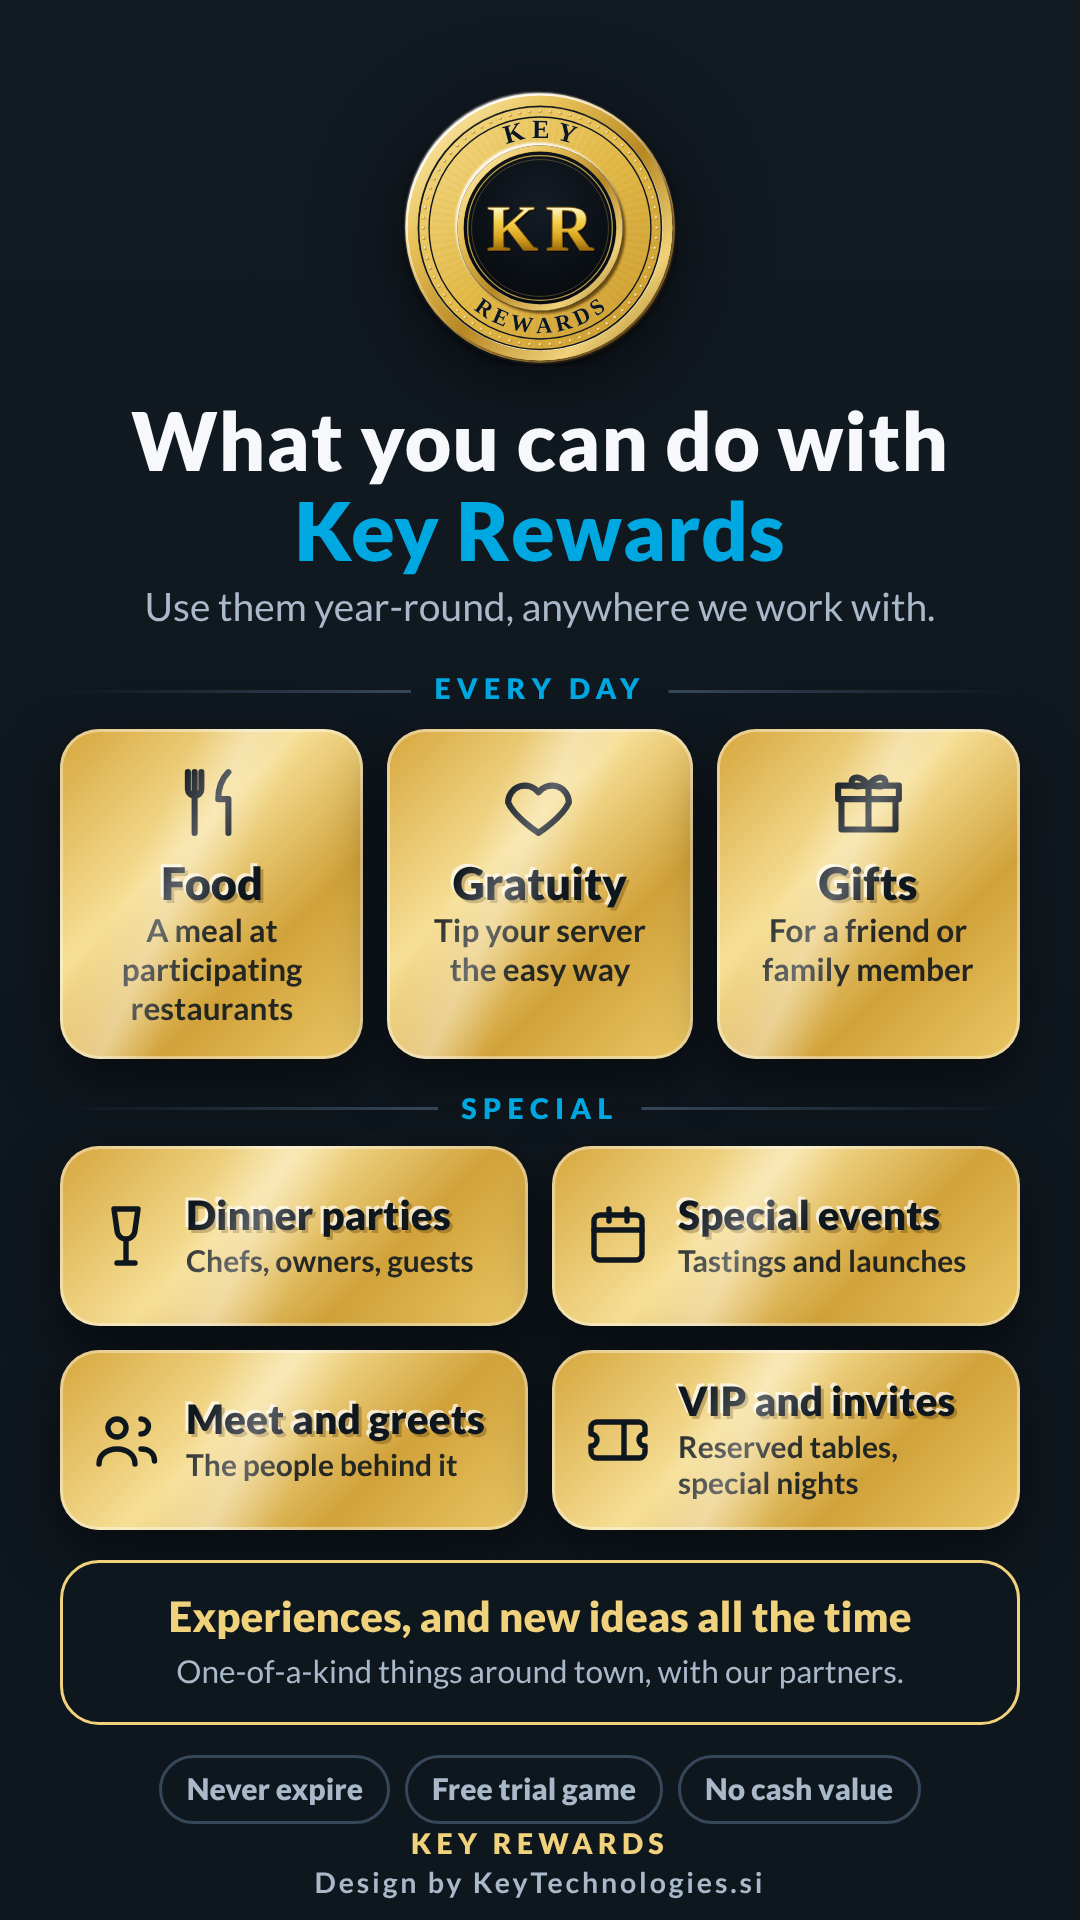
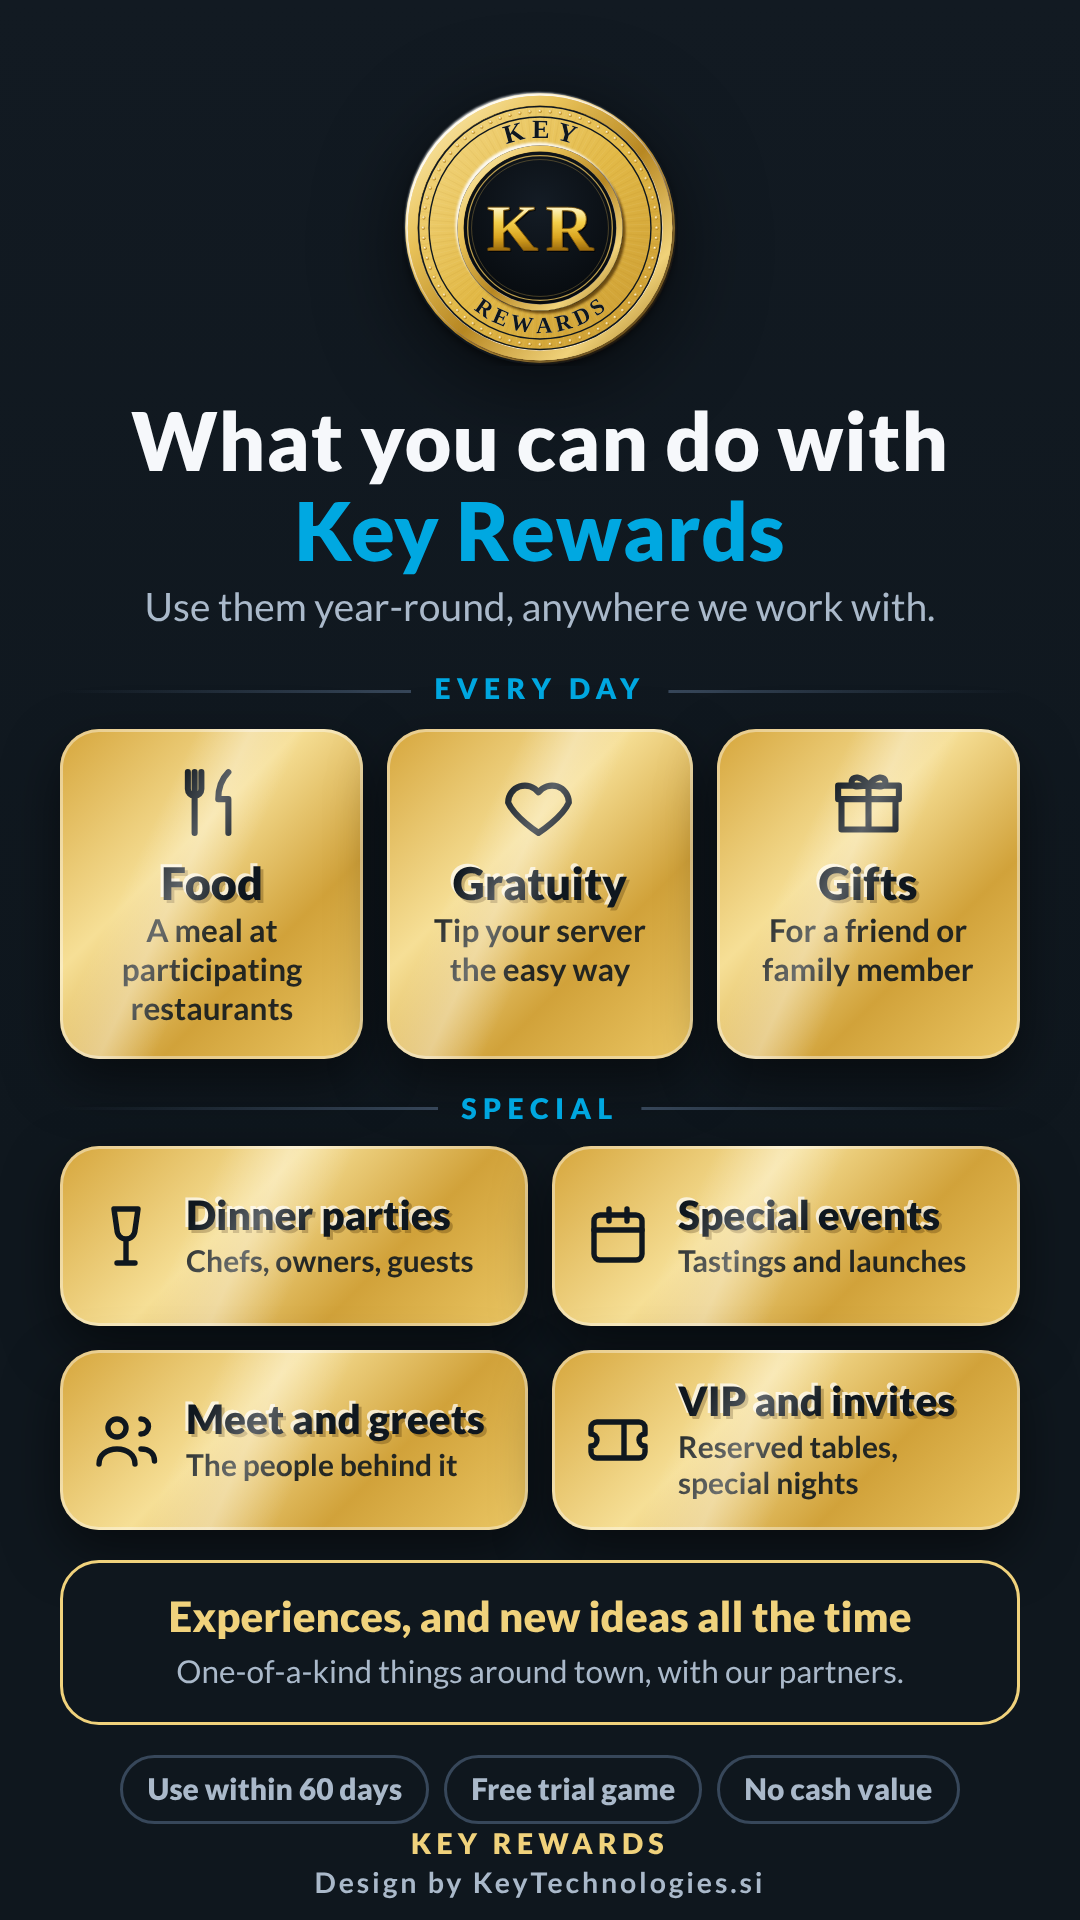
Expiry is back: 60 days for credits, 72 hours for gift cards, shown on cards, wallet, terms, history report and share pages
Claude-Session: https://claude.ai/code/session_01C24s48QBeAMLS2iDpVHsTf

Changed region(s): [[0.1222, 0.9062, 0.8861, 0.9688]]

diff --git a/sites/key-technologies/restaurant-rewards-treasury.html b/sites/key-technologies/restaurant-rewards-treasury.html
@@ -247,6 +247,7 @@ body.hlock{overflow:hidden}
 .gc::before,#pres .gc::before{display:none!important;animation:none!important}
 .gc .brand,.gc .brand2,.gc .nm,.gc .num,.gc .bal b,.gc .bal small,.gc .fineprint,.gc .gnote,.gc .gtag,.gc .gla,.gc .glab,.gc .gtitle,.gc .exp{text-shadow:0 1px 0 rgba(255,228,150,.38)!important}
 .gc:not(.gift):not(.back) .nm{margin-top:auto;margin-bottom:0}.gc:not(.gift):not(.back) .num{margin-top:5px;padding-top:0}
+.gc.gift .brand2{display:none}.gc.gift .gtitle{margin-top:3px;line-height:1.05}.gc.gift .glab{padding-top:2px}.gc.gift .bal{margin-top:5px}.gc.gift .bal b{font-size:min(30px,8.4cqw)}
 </style>
 </head>
 <body>
@@ -389,11 +390,11 @@ body.hlock{overflow:hidden}
  function stTxt(e){return e.status==='pending'?'Waiting for confirmation':(e.status==='declined'?'Declined':'')}
  function bal(id){var b=0;S.entries.forEach(function(e){if(e.to===id&&credited(e))b+=e.amt;if(e.from===id&&debited(e))b-=e.amt});return b}
  var DAY=86400000,LC={k:'',v:null};
- /* Credit expires 90 days after the day it is issued (the card counts down from 89), unless said otherwise: Vanilla Rice's wallet 60 days; Thin Blue 702 wallet end of March 2027. A gift card (a credit to give) is good for only 72 hours after it is issued; when it is given, the person who gets it receives normal credit (90 days from the day it is given). */
- var FOREVER=8.64e15; /* Key Rewards never expire */
- function expFor(n,t,gift){return FOREVER;if(gift)return t+72*3600000;if(/^Thin Blue 702$/i.test(n))return new Date(2027,2,31,23,59,59).getTime();if(/^Vanilla Rice/i.test(n))return t+60*DAY;return t+90*DAY}
+ /* Shane (2026-11-21): every credit is good for 60 days from the day it is issued (the card counts down from 59). A gift card (a credit to give) is good for only 72 hours after it is issued; when it is given, the person who gets it receives normal credit (60 days from the day it is given). What is left after that expires and goes back to the Treasury. */
+ var FOREVER=8.64e15; /* only used to mean 'no date' */
+ function expFor(n,t,gift){if(gift)return t+72*3600000;return t+60*DAY}
  function expAt(e){var w=wById(e.to);return expFor(w?String(w.name):'',e.t,!!w&&isGiftW(w))}
- /* Every credit sent from the Treasury is stamped with the day it was issued. It keeps that date wherever it goes (spent, gifted, paid to a restaurant). Oldest credit is used first. After 90 days what is left expires and goes back to the Treasury. */
+ /* Every credit sent from the Treasury is stamped with the day it was issued. It keeps that date wherever it goes (spent, gifted, paid to a restaurant). Oldest credit is used first. After 60 days what is left expires and goes back to the Treasury. */
  function lotsNow(){var T=now(),k=S.entries.length+':'+S.entries.map(function(e){return e.status||'-'}).join('')+':'+Math.floor(T/60000);if(LC.k===k&&LC.v)return LC.v;
   var W={};S.wallets.forEach(function(w){W[w.id]={v:[],x:0}});
   function adv(at){for(var id in W){if(id==='treasury')continue;var o=W[id],keep=[];o.v.forEach(function(l){if(l.ex<=at){o.x+=l.amt;o.xl=Math.max(o.xl||0,l.ex)}else keep.push(l)});o.v=keep}}
@@ -446,7 +447,7 @@ body.hlock{overflow:hidden}
   bk.appendChild(d('l','Where to use it'));var rs=sw().filter(function(x){return x.type==='Restaurant'&&accepts(x.id)}).map(function(x){return x.name});bk.appendChild(d('t',rs.length?rs.join(' · '):'No restaurant is accepting right now.'));
   bk.appendChild(d('l','What it is for'));bk.appendChild(d('t s','Food and gratuity. Dinner parties and special events. Meet and greets. Experiences. VIP experiences and special invites. And new ideas all the time.'));bk.appendChild(d('l f','How to use it'));['1. Tap Redeem.','2. Pick the restaurant and type how much.','3. Tap Send and show the cashier the confirmation.'].forEach(function(x){bk.appendChild(d('t s',x))});bk.appendChild(d('t s','Use your rewards for food and gratuity (tip).'));
   bk.appendChild(d('l f','The fine print'));
-  ['Key Rewards can be used with participating businesses for special events, meet and greets, VIP experiences and special invites, and we are always adding new ideas.','Never expire. Key Rewards stay in the wallet until they are used. A gift card is a credit to give to a friend or family member; the person who receives the gift gets normal credit.','No cash value. Key Rewards are not money and cannot be exchanged for cash.','Not for sale. Key Technologies creates Key Rewards and gives them away. They are never sold.','Participating businesses can turn acceptance on or off, and add or remove credit, whenever they want. A business on the list above accepts them now. A business not on the list does not accept them.','This is a free trial game and we are trying it out to see where it goes. Key Technologies is not responsible if the database has a problem, goes down, or anything is lost.','Thank you for playing and for believing in the future of this technology.'].forEach(function(x){bk.appendChild(d('t p',x))});
+  ['Key Rewards can be used with participating businesses for special events, meet and greets, VIP experiences and special invites, and we are always adding new ideas.','Use within 60 days. Key Rewards are good for 60 days from the day they are issued, and what is not used by then goes back to Key Technologies. A gift card is a credit to give to a friend or family member; it must be given within 72 hours, and the person who receives the gift gets normal credit with a new 60 days.','No cash value. Key Rewards are not money and cannot be exchanged for cash.','Not for sale. Key Technologies creates Key Rewards and gives them away. They are never sold.','Participating businesses can turn acceptance on or off, and add or remove credit, whenever they want. A business on the list above accepts them now. A business not on the list does not accept them.','This is a free trial game and we are trying it out to see where it goes. Key Technologies is not responsible if the database has a problem, goes down, or anything is lost.','Thank you for playing and for believing in the future of this technology.'].forEach(function(x){bk.appendChild(d('t p',x))});
   bkw.appendChild(bk);var sb=d('sbar'),sth=d('sth');sb.appendChild(sth);bkw.appendChild(sb);b.appendChild(bkw);
   var hr=d('hr');hr.appendChild(d('t h','Tap the card to flip it back.'));hr.appendChild(d('t h c','Design by KeyTechnologies.si'));b.appendChild(hr);fi.appendChild(b);fl.appendChild(fi);wr.appendChild(fl);
   var sh=d('shine');wr.appendChild(sh);
@@ -592,7 +593,7 @@ body.hlock{overflow:hidden}
    else{r.t=isClose(e)?'Wallet closed, credit returned to the Treasury':isTake(e)?'Taken back by the Treasury':isExp(e)?'Expired':isPay(e)?'Paid '+wname(e.to):(isGiftW(wById(e.to))?'Gift of '+fmt(e.amt)+' for '+giftHolder(wById(e.to)):'Sent to '+wname(e.to));r.sign=(e.status==='declined'||id==='treasury')?'':'−'}
    rows.push(finishRow(r,nt))});
   return rows}
- function finishRow(r,nt){var e=r.e;r.sub=when(e.t);var x=[];if(nt&&!isPay(e)&&!isGiftE(e)&&nt!=='Opening balance'&&nt!=='Wallet opened with a zero balance')x.push(nt);if(stTxt(e))x.push(stTxt(e));if(e.ct)x.push((e.status==='declined'?'Declined ':'Confirmed ')+when(e.ct));x.push(conf(e));r.s2=x;return r}
+ function finishRow(r,nt){var e=r.e;r.sub=when(e.t);var x=[];if(nt&&!isPay(e)&&!isGiftE(e)&&nt!=='Opening balance'&&nt!=='Wallet opened with a zero balance')x.push(nt);if(stTxt(e))x.push(stTxt(e));if(e.from==='treasury'&&e.amt&&e.status!=='declined'&&!isTake(e)&&e.kind!=='open'){var xw=wById(e.to),xg=!!xw&&isGiftW(xw),xa=expAt(e);x.push(xg?'Give by '+new Date(xa).toLocaleString('en-US',{month:'short',day:'numeric',year:'numeric',hour:'numeric',minute:'2-digit'}):'Use by '+new Date(xa).toLocaleDateString('en-US',{month:'short',day:'numeric',year:'numeric'}))}if(e.ct)x.push((e.status==='declined'?'Declined ':'Confirmed ')+when(e.ct));x.push(conf(e));r.s2=x;return r}
  function rowLi(r,id,compact){var e=r.e,li=el('li'),l=el('span'),b=el('b',null,r.t);l.appendChild(b);l.appendChild(el('small',null,r.sub));if(!compact)l.appendChild(el('small',null,r.s2.join(' \u00b7 ')));li.title='Recorded '+iso(e.t)+' (UTC)';li.appendChild(l);
   if(r.amt!==null){var dc=e.status==='declined',a=el('span','a'+(r.inn&&!dc&&!r.tag?' in':''),r.sign+fmt(r.amt));a.appendChild(el('small',null,r.tag?r.tag:(r.run===null?'':'Balance '+fmt(r.run))));li.appendChild(a)}
   if(isPay(e)){li.className='tap';li.setAttribute('role','button');li.setAttribute('tabindex','0');var open=function(){receipt(e,id)};li.addEventListener('click',open);li.addEventListener('keydown',function(ev){if(ev.key==='Enter')open()})}return li}
@@ -707,7 +708,7 @@ body.hlock{overflow:hidden}
   var tre=bal('treasury'),wal=0,gwal=0,hh=held();S.wallets.forEach(function(w){if(w.id==='treasury')return;if(isGiftW(w))gwal+=shown(w.id);else wal+=shown(w.id)});
   var mv=S.entries.filter(function(e){return e.kind!=='open'&&e.from}),all=S.entries.slice().sort(function(a,b){return a.t-b.t||a.id-b.id}),rng=all.length?when(all[0].t)+'  to  '+when(all[all.length-1].t):'';
   P.appendChild(el('div','hbrand','Key Technologies'));P.appendChild(el('h3',null,'Key Rewards history report'));
-  P.appendChild(el('p','hsub','Prepared '+when(Date.now())+'. Every move is listed with the exact time it went through. Nothing is ever edited or deleted.'));
+  P.appendChild(el('p','hsub','Prepared '+when(Date.now())+'. Every move is listed with the exact time it went through. Nothing is ever edited or deleted. Key Rewards must be used within 60 days of the day they are issued; a gift card must be given within 72 hours.'));
   var g=el('div','hgrid');[['Issued in total',fmt(SUPPLY)],['In the Treasury',fmt(tre)],['In wallets',fmt(wal)],['In gift cards',fmt(gwal)]].forEach(function(x){var d=el('div','hs');d.appendChild(el('small',null,x[0]));d.appendChild(el('b',null,x[1]));g.appendChild(d)});P.appendChild(g);
   var ok=(tre+wal+gwal+hh===SUPPLY);P.appendChild(el('p','hsub','Treasury + wallets + gift cards'+(hh?' + '+fmt(hh)+' waiting for confirmation':'')+' = '+fmt(tre+wal+gwal+hh)+(ok?'. Everything adds up.':'. DOES NOT MATCH the issued total.')+'  '+mv.length+(mv.length===1?' move':' moves')+' recorded. '+rng));
   /* who got what */
@@ -730,7 +731,7 @@ body.hlock{overflow:hidden}
    c2.appendChild(el('b',isO?'mut':'',ty));
    var fr=!e.from?(isO?'':'Opening balance'):rlabel(e.from)+(rwhere(e.from)&&e.from!=='treasury'?' ('+rwhere(e.from)+')':''),to=rlabel(e.to)+(rwhere(e.to)?' ('+rwhere(e.to)+')':'');
    c2.appendChild(el('span',isO?'mut':'',isO?to:(e.from?fr+'  →  '+to:to)));
-   var x=[];if(nt&&nt!==ty&&nt!=='Opening balance'&&nt!=='Wallet opened with a zero balance')x.push(nt);if(stTxt(e))x.push(stTxt(e));if(e.ct)x.push((e.status==='declined'?'Declined ':'Confirmed ')+when(e.ct));if(x.length)c2.appendChild(el('small',null,x.join(' · ')));
+   var x=[];if(nt&&nt!==ty&&nt!=='Opening balance'&&nt!=='Wallet opened with a zero balance')x.push(nt);if(stTxt(e))x.push(stTxt(e));if(e.from==='treasury'&&e.amt&&e.status!=='declined'&&!isTake(e)&&e.kind!=='open'){var xw=wById(e.to),xg=!!xw&&isGiftW(xw),xa=expAt(e);x.push(xg?'Give by '+new Date(xa).toLocaleString('en-US',{month:'short',day:'numeric',year:'numeric',hour:'numeric',minute:'2-digit'}):'Use by '+new Date(xa).toLocaleDateString('en-US',{month:'short',day:'numeric',year:'numeric'}))}if(e.ct)x.push((e.status==='declined'?'Declined ':'Confirmed ')+when(e.ct));if(x.length)c2.appendChild(el('small',null,x.join(' · ')));
    tr2.appendChild(c2);tr2.appendChild(el('td','r'+(isO?' mut':''),isO?'—':fmt(e.amt)));b2.appendChild(tr2)});
   t2.appendChild(b2);tw2.appendChild(t2);P.appendChild(tw2);
   var fp=el('p','mono','Computing the ledger fingerprint…');P.appendChild(el('h2',null,'Ledger fingerprint'));P.appendChild(el('p','hsub','A code made from every record in order. If any past record were ever changed, this code would change.'));P.appendChild(fp);

diff --git a/sites/key-technologies/restaurant-rewards-share-story.html b/sites/key-technologies/restaurant-rewards-share-story.html
@@ -61,7 +61,7 @@ h1{position:relative;margin:10px 0 3px;font-size:27px;line-height:1.1;font-weigh
   <div class="gold sm"><svg viewBox="0 0 24 24" aria-hidden="true"><path d="M3 8a2 2 0 0 1 2-2h14a2 2 0 0 1 2 2v2a2 2 0 0 0 0 4v2a2 2 0 0 1-2 2H5a2 2 0 0 1-2-2v-2a2 2 0 0 0 0-4V8zM14 6v12"/></svg><div><h2>VIP and invites</h2><p>Reserved tables, special nights</p></div></div>
  </div>
  <div class="more"><b>Experiences, and new ideas all the time</b><span>One-of-a-kind things around town, with our partners.</span></div>
- <div class="facts"><span>Never expire</span><span>Free trial game</span><span>No cash value</span></div>
+ <div class="facts"><span>Use within 60 days</span><span>Free trial game</span><span>No cash value</span></div>
  <div class="foot"><b>KEY REWARDS</b><br>Design by KeyTechnologies.si</div>
 </main>
 </body>

diff --git a/sites/key-technologies/restaurant-rewards-share-kt.html b/sites/key-technologies/restaurant-rewards-share-kt.html
@@ -65,7 +65,7 @@ h1 em{font-style:normal;color:var(--key)}
   <div class="card sm"><svg viewBox="0 0 24 24" aria-hidden="true"><path d="M3 8a2 2 0 0 1 2-2h14a2 2 0 0 1 2 2v2a2 2 0 0 0 0 4v2a2 2 0 0 1-2 2H5a2 2 0 0 1-2-2v-2a2 2 0 0 0 0-4V8zM14 6v12"/></svg><div><h2>VIP and invites</h2><p>Reserved tables, special nights</p></div></div>
  </div>
  <div class="more"><b>Experiences, and new ideas all the time</b><span>One-of-a-kind things around town, with our partners.</span></div>
- <div class="facts"><span>Never expire</span><span>Free trial game</span><span>No cash value</span></div>
+ <div class="facts"><span>Use within 60 days</span><span>Free trial game</span><span>No cash value</span></div>
  <div class="foot"><b>KEY REWARDS</b><br>Design by KeyTechnologies.si</div>
 </main>
 </body>

diff --git a/sites/key-technologies/restaurant-rewards-share-gold.html b/sites/key-technologies/restaurant-rewards-share-gold.html
@@ -47,7 +47,7 @@ h1{margin:10px 0 2px;font-size:21px;line-height:1.12;font-weight:900;text-align:
   <div class="tile"><svg viewBox="0 0 24 24" aria-hidden="true"><path d="M3 6h18v12H3zM3 7l9 7 9-7"/></svg><h2>Special invites</h2><p>Invitation-only nights for people who hold rewards.</p></div>
  </div>
  <div class="more"><b>Experiences, and new ideas all the time</b><span>One-of-a-kind things around town, with our partners.</span></div>
- <div class="facts"><span>Never expire</span><span>Free trial game</span><span>No cash value</span></div>
+ <div class="facts"><span>Use within 60 days</span><span>Free trial game</span><span>No cash value</span></div>
  <div class="foot"><b>KEY REWARDS</b><br>Design by KeyTechnologies.si</div>
 </main>
 </body>

diff --git a/sites/key-technologies/restaurant-rewards-share.html b/sites/key-technologies/restaurant-rewards-share.html
@@ -47,7 +47,7 @@ h1{margin:10px 0 3px;font-size:25px;line-height:1.12;font-weight:900;text-align:
   <div class="tile"><svg viewBox="0 0 24 24" aria-hidden="true"><path d="M3 6h18v12H3zM3 7l9 7 9-7"/></svg><h2>Special invites</h2><p>Invitation-only nights for people who hold rewards.</p></div>
  </div>
  <div class="more"><b>Experiences, and new ideas all the time</b><span>One-of-a-kind things around town, with our partners.</span></div>
- <div class="facts"><span>Never expire</span><span>Free trial game</span><span>No cash value</span></div>
+ <div class="facts"><span>Use within 60 days</span><span>Free trial game</span><span>No cash value</span></div>
  <div class="foot"><b>KEY REWARDS</b><br>Design by KeyTechnologies.si</div>
 </main>
 </body>

diff --git a/docs/key-integration/NEXT_STEPS.md b/docs/key-integration/NEXT_STEPS.md
@@ -497,3 +497,6 @@ KNOWN GAPS (told to Shane): (a) the time a restaurant CONFIRMS or declines a pay
 267. Calmer card (Shane, 2026-11-21: "something looks funny... the hue in the background is too bright"): name now ABOVE the number on every wallet card; the bright diagonal streak and the moving shine are gone; the gold is a deeper, even satin gradient (#d6a93d to #ba8920) instead of the bright multi-stop one; text uses a faint light edge instead of the heavy white/dark halo (crisper numbers); corners 14px (closer to a real card). Gift cards and the back keep their layout. 15-size fit test passed. Still all gold, no blue.
 
 268. History report on a phone: the AMOUNT column was off to the right (hidden behind a sideways scroll). Fixed: the table now fits the screen (amount right-aligned, entry numbers no longer wrap). Checked Oak and Bubbles in the ledger: Treasury 9,994,500 + wallets 5,400 + gift cards 100 = 10,000,000, 4 money moves (Thin Blue 5,000; Crown 300; Oak and Bubbles wallet 100; gift card 100), ledger fingerprint f4f25c20... in the practice copy. The permanent database ledger starts at the first PIN sign-in after the Mac setup is finished.
+
+269. Expiry is back (Shane, 2026-11-21: "as soon as we issue them, they have 60 days to use it"): every credit from the Treasury is good for 60 days from the day it is issued (cards count down from 59); a gift card is good for 72 hours to give, and the person who receives the gift gets normal credit with a new 60 days. Left over after that expires and returns to the Treasury (existing sweep). The old special cases (Thin Blue 702 to end of March 2027, Vanilla Rice 60) are removed: Thin Blue's 5,000 issued Nov 20 now runs to Jan 19, 2027. Shown on: the card ("Expires in 59 days" / "Expires in 72 hours"), the wallet screen, the back-of-card terms ("Use within 60 days..."), the history report (each credit says "Use by <date>", gifts "Give by <date, time>", plus a line at the top), the four share pages and their pictures ("Use within 60 days"). Gift card face tightened so the balance is not cut off. NOT changed: the separate Key Rewards member sandbox (key-rewards-*.html, kr-engine.js, demos), where standing wording is that rewards never expire. Attorney item: expiring stored value / gift certificate rules, wording "use within 60 days" (never "use it or lose it").
+Colour versions A-E (bright gold, 24-karat soft shine, brushed, deep yellow gold, champagne) sent to Shane; none applied yet.
